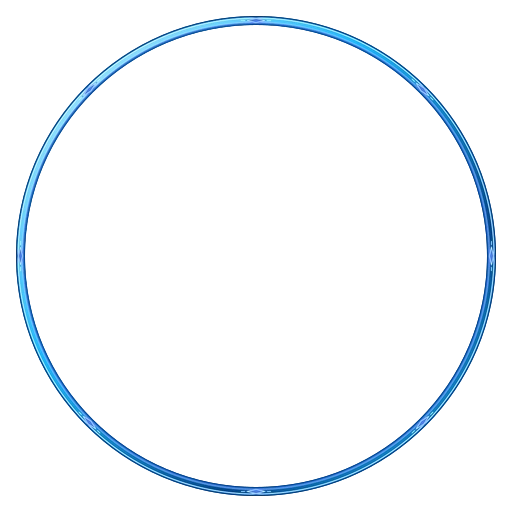
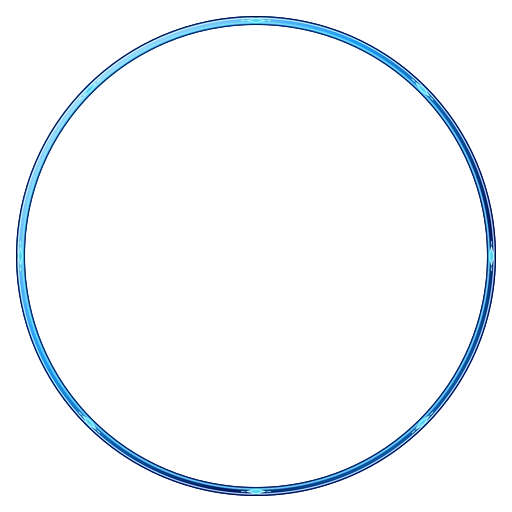
Add moderately ornate league frames and contrasting arena rims

Changed region(s): [[0.0312, 0.0312, 0.9688, 0.9688]]

diff --git a/games/heroes-of-ether/public/index.html b/games/heroes-of-ether/public/index.html
@@ -2,7 +2,7 @@
 <html lang="ru" class="game-booting">
   <head>
     <script src="shared/browser-abort-compat.js?v=20261123-interface-art"></script>
-    <script src="shared/art-revision.js?v=20261123-title-frames"></script>
+    <script src="shared/art-revision.js?v=20261123-league-frames"></script>
     <meta charset="utf-8" />
     <meta name="viewport" content="width=device-width, initial-scale=1, viewport-fit=cover" />
     <meta name="theme-color" content="#101321" />
@@ -651,7 +651,7 @@
     <script src="ui/progression/greatness-label.js?v=20261123-interface-art"></script>
     <script src="shared/skin-collection-preview.js?v=20261123-interface-art"></script>
     <script src="shared/player-identity.js?v=20261123-interface-art"></script>
-    <script src="shared/league-appearance.js?v=20261123-title-frames"></script>
+    <script src="shared/league-appearance.js?v=20261123-league-frames"></script>
     <script src="shared/lobby-menu-art.js?v=20261123-interface-art"></script>
     <script src="shared/interface-theme.js?v=20261123-interface-art"></script>
     <script src="shared/accessory-catalog.js?v=20261123-interface-art"></script>
@@ -685,7 +685,7 @@
     <script src="ui/shop/currency-purchase-dialog.js?v=20261123-interface-art"></script>
     <script src="shared/booster-cooldowns.js?v=20261123-interface-art"></script>
     <script src="ui/cosmetics/skin-and-wardrobe-dialogs.js?v=20261123-interface-art"></script>
-    <script src="ui/cosmetics/league-appearance.js?v=20261123-title-frames"></script>
+    <script src="ui/cosmetics/league-appearance.js?v=20261123-league-frames"></script>
     <script src="ui/lobby/sky-scene.js?v=20261123-interface-art"></script>
     <script src="shared/quick-slot-rules.js?v=20261123-interface-art"></script>
     <script src="ui/boosters/booster-tooltip.js?v=20261123-interface-art"></script>
@@ -723,7 +723,7 @@
     <script src="shared/arena-backgrounds.js?v=20261123-interface-art"></script>
     <script src="shared/projectile-renderer.js?v=20261123-interface-art"></script>
     <script src="shared/booster-effect-renderer.js?v=20261123-interface-art"></script>
-    <script src="arena/food-and-frame-renderer.js?v=20261123-title-frames"></script>
+    <script src="arena/food-and-frame-renderer.js?v=20261123-league-frames"></script>
     <script src="arena/body-renderer.js?v=20261123-interface-art"></script>
     <script src="arena/portrait-loader.js?v=20261123-interface-art"></script>
     <script src="ui/profile/online-presence.js?v=20261123-interface-art"></script>

diff --git a/games/heroes-of-ether/public/arena/food-and-frame-renderer.js b/games/heroes-of-ether/public/arena/food-and-frame-renderer.js
@@ -341,7 +341,7 @@
     ctx.stroke();
   }
   // Native circles reproduce the approved rims without asynchronous texture swaps.
-  const preparedRimColors = {"vip":["#873500","#ffb300","#fff09b","#ffcf32"],"premium":["#300054","#9c27f2","#e8b8ff","#ffd15a"],"bronze":["#632807","#cb691e","#ffc27a","#924114"],"silver":["#294866","#a8c8e9","#f2f8ff","#718ca8"],"gold":["#7d3d00","#f9b415","#ffeb7c","#d88500"],"platinum":["#005a57","#09c4b3","#b6fff1","#e0f7ff"],"diamond":["#034890","#19b9ff","#d0f6ff","#4a80ef"],"champions":["#560217","#c30f2f","#ffcc51","#ffdf70"],"title_novice":["#263d53","#698ca8","#cee5f6","#4b6b86"],"title_experienced":["#143f87","#2377d6","#acdaff","#bcd9ef"],"title_expert":["#784400","#e5a623","#ffdf7c","#2286dc"],"title_sage":["#004d62","#00a8bd","#b5f8ff","#e9d283"],"title_master":["#721627","#d53750","#ffc49e","#ffbc40"],"title_pro":["#004a25","#0eae63","#b2f0b1","#f5c34c"],"title_prince":["#071b78","#235ce0","#b6ceff","#ffd057"],"title_king":["#670414","#d81032","#ff9b85","#ffcd45"],"title_emperor":["#081b4e","#244ba3","#c5d9ff","#ffd65b"],"title_boss":["#3c005e","#a516dd","#efafff","#ffce51"]};
+  const preparedRimColors = {"vip":["#873500","#ffb300","#fff09b","#ffcf32"],"premium":["#300054","#9c27f2","#e8b8ff","#ffd15a"],"bronze":["#351303","#cf6a21","#ffd3a0","#793309"],"silver":["#142332","#a8c8e9","#ffffff","#496988"],"gold":["#4e2200","#ffbe0b","#fff5a3","#a45500"],"platinum":["#003831","#00cbb0","#e0fff4","#15756d"],"diamond":["#001b68","#159dff","#e7ffff","#4bd8ff"],"champions":["#2f0014","#ed143d","#ffe775","#ffc22a"],"title_novice":["#263d53","#698ca8","#cee5f6","#4b6b86"],"title_experienced":["#143f87","#2377d6","#acdaff","#bcd9ef"],"title_expert":["#784400","#e5a623","#ffdf7c","#2286dc"],"title_sage":["#004d62","#00a8bd","#b5f8ff","#e9d283"],"title_master":["#721627","#d53750","#ffc49e","#ffbc40"],"title_pro":["#004a25","#0eae63","#b2f0b1","#f5c34c"],"title_prince":["#071b78","#235ce0","#b6ceff","#ffd057"],"title_king":["#670414","#d81032","#ff9b85","#ffcd45"],"title_emperor":["#081b4e","#244ba3","#c5d9ff","#ffd65b"],"title_boss":["#3c005e","#a516dd","#efafff","#ffce51"]};
   function preparedRim(ctx, id, radius) {
     const colors = preparedRimColors[id.replace(/^canon_/, "")];
     if (!colors) return false;

diff --git a/games/heroes-of-ether/public/shared/league-appearance.js b/games/heroes-of-ether/public/shared/league-appearance.js
@@ -143,6 +143,12 @@
     const base = baseFrame(id), fit = titleProfileFits[base];
     return fit ? { fit, source: `assets/frames/titles-v4/512/${base.slice(6)}.webp?art=20261123-title-frames` } : null;
   };
+  // League profile decorations use their own fit, independent from arena rims.
+  const leagueProfileFits = {"bronze":[0.4959826764344392,0.5219149809158973,0.36072323666308626],"silver":[0.49318914509897993,0.5331662714202191,0.3558409009536829],"gold":[0.4972681120568017,0.5195164051115465,0.3533997330989812],"platinum":[0.4960250505034565,0.5195351411615778,0.35177228786251347],"diamond":[0.49521098639687994,0.5327396809446455,0.3566546235719168],"champions":[0.4935962894489486,0.5258975168612293,0.3586889301175015]};
+  const leagueProfileFrame = (id) => {
+    const base = baseFrame(id), fit = leagueProfileFits[base];
+    return fit ? { fit, source: `assets/frames/leagues-v3/512/${base}.webp?art=20261123-league-frames` } : null;
+  };
   const valid = (id, slot) =>
     id === "default" ||
     !!theme(id) ||
@@ -158,14 +164,14 @@
   const resolveFrame = (id) => (theme(id) || accountFrame(id) || rankFrame(id) || interfaceTheme(id) || variantFrame(id) ? id : "default");
   const source = (id, kind) =>
     kind === "frame" && !!(variantFrame(id) || rankFrame(id) || theme(id) || accountFrame(id))
-      ? `assets/frames/rims-v2/${id}.webp?art=20261123-title-frames`
+      ? `assets/frames/rims-v2/${id}.webp?art=${theme(baseFrame(id)) ? "20261123-league-frames" : "20261123-title-frames"}`
         : interfaceTheme(id) && ["frame", "profile", "lobby"].includes(kind)
           ? `assets/interface-packs/${id}/${kind}.webp?art=${kind === "frame" ? "20261122c" : "20261122b"}`
           : theme(id) && ["lobby", "profile", "frame", "clan"].includes(kind)
             ? `assets/league-appearance/${id}-${kind}.svg?art=20261123-interface-art`
             : null;
   return {
-    titleProfileFrame, variantFrames, variantFrame, baseFrame, frameForSlot,
+    leagueProfileFrame, titleProfileFrame, variantFrames, variantFrame, baseFrame, frameForSlot,
     themes,
     interfaceThemes,
     interfaceTheme,

diff --git a/games/heroes-of-ether/public/shared/art-revision.js b/games/heroes-of-ether/public/shared/art-revision.js
@@ -7,11 +7,12 @@ window.KillexArtRevision = Object.freeze({
     const parts = value.split("#"), base = parts[0]
       .replace(/([?&])art=[^&]*(&?)/g, (_, a, b) => b ? a : "").replace(/[?&]$/, "");
     const prepared = preparedInterfaceAssets.has(base.split("?")[0].replace(/^\//,""));
+    const revisedLeagueFrame = /assets\/frames\/(?:leagues-v3\/|rims-v2\/(?:canon_)?(?:bronze|silver|gold|platinum|diamond|champions)\.webp)/.test(base);
     const revisedFrame = /assets\/frames\/(?:rims-v2|titles-v4)\//.test(base);
     const selectedPortrait = /assets\/skins\/(?:premium-v2\/\d+\/premium-2|collections-v1\/\d+\/(?:desert-cat|grove-faun))\.webp/.test(base);
     const revised = /assets\/achievements\/illustrated-v2\/(?!easter_)/.test(base)
       || /assets\/skins\/(?:transparent-v2\/\d+\/vip-[13]|premium-v2\/\d+\/premium-2)\.webp/.test(base);
-    return base + (base.includes("?") ? "&" : "?") + "art=" + (revisedFrame ? "20261123-title-frames" : prepared ? "20261123-interface-art" : selectedPortrait ? "20261123-selected-portraits" : revised ? "20261122c" : "20261122b")
+    return base + (base.includes("?") ? "&" : "?") + "art=" + (revisedLeagueFrame ? "20261123-league-frames" : revisedFrame ? "20261123-title-frames" : prepared ? "20261123-interface-art" : selectedPortrait ? "20261123-selected-portraits" : revised ? "20261122c" : "20261122b")
       + (parts.length > 1 ? "#" + parts.slice(1).join("#") : "");
   },
 });

diff --git a/games/heroes-of-ether/public/ui/cosmetics/league-appearance.js b/games/heroes-of-ether/public/ui/cosmetics/league-appearance.js
@@ -268,8 +268,8 @@
   function paintFrame(host, id, account) {
     if (!host) return;
     let image = host.querySelector(":scope > .league-avatar-frame");
-    const titleFrame = catalog.titleProfileFrame(id);
-    const source = titleFrame?.source || (catalog.interfaceTheme(id) ? catalog.source(id, "frame") : null);
+    const profileFrame = catalog.leagueProfileFrame(id) || catalog.titleProfileFrame(id);
+    const source = profileFrame?.source || (catalog.interfaceTheme(id) ? catalog.source(id, "frame") : null);
     if (!source) {
       image?.remove();
       const resolved = catalog.resolveFrame(id, account);
@@ -284,7 +284,7 @@
       image.alt = "";
       host.append(image);
     }
-    const fit = titleFrame?.fit || catalog.frameTheme(id)?.fit;
+    const fit = profileFrame?.fit || catalog.frameTheme(id)?.fit;
     for (const property of ["top", "left", "right", "bottom", "width", "height"])
       image.style.removeProperty(property);
     if (fit) {
